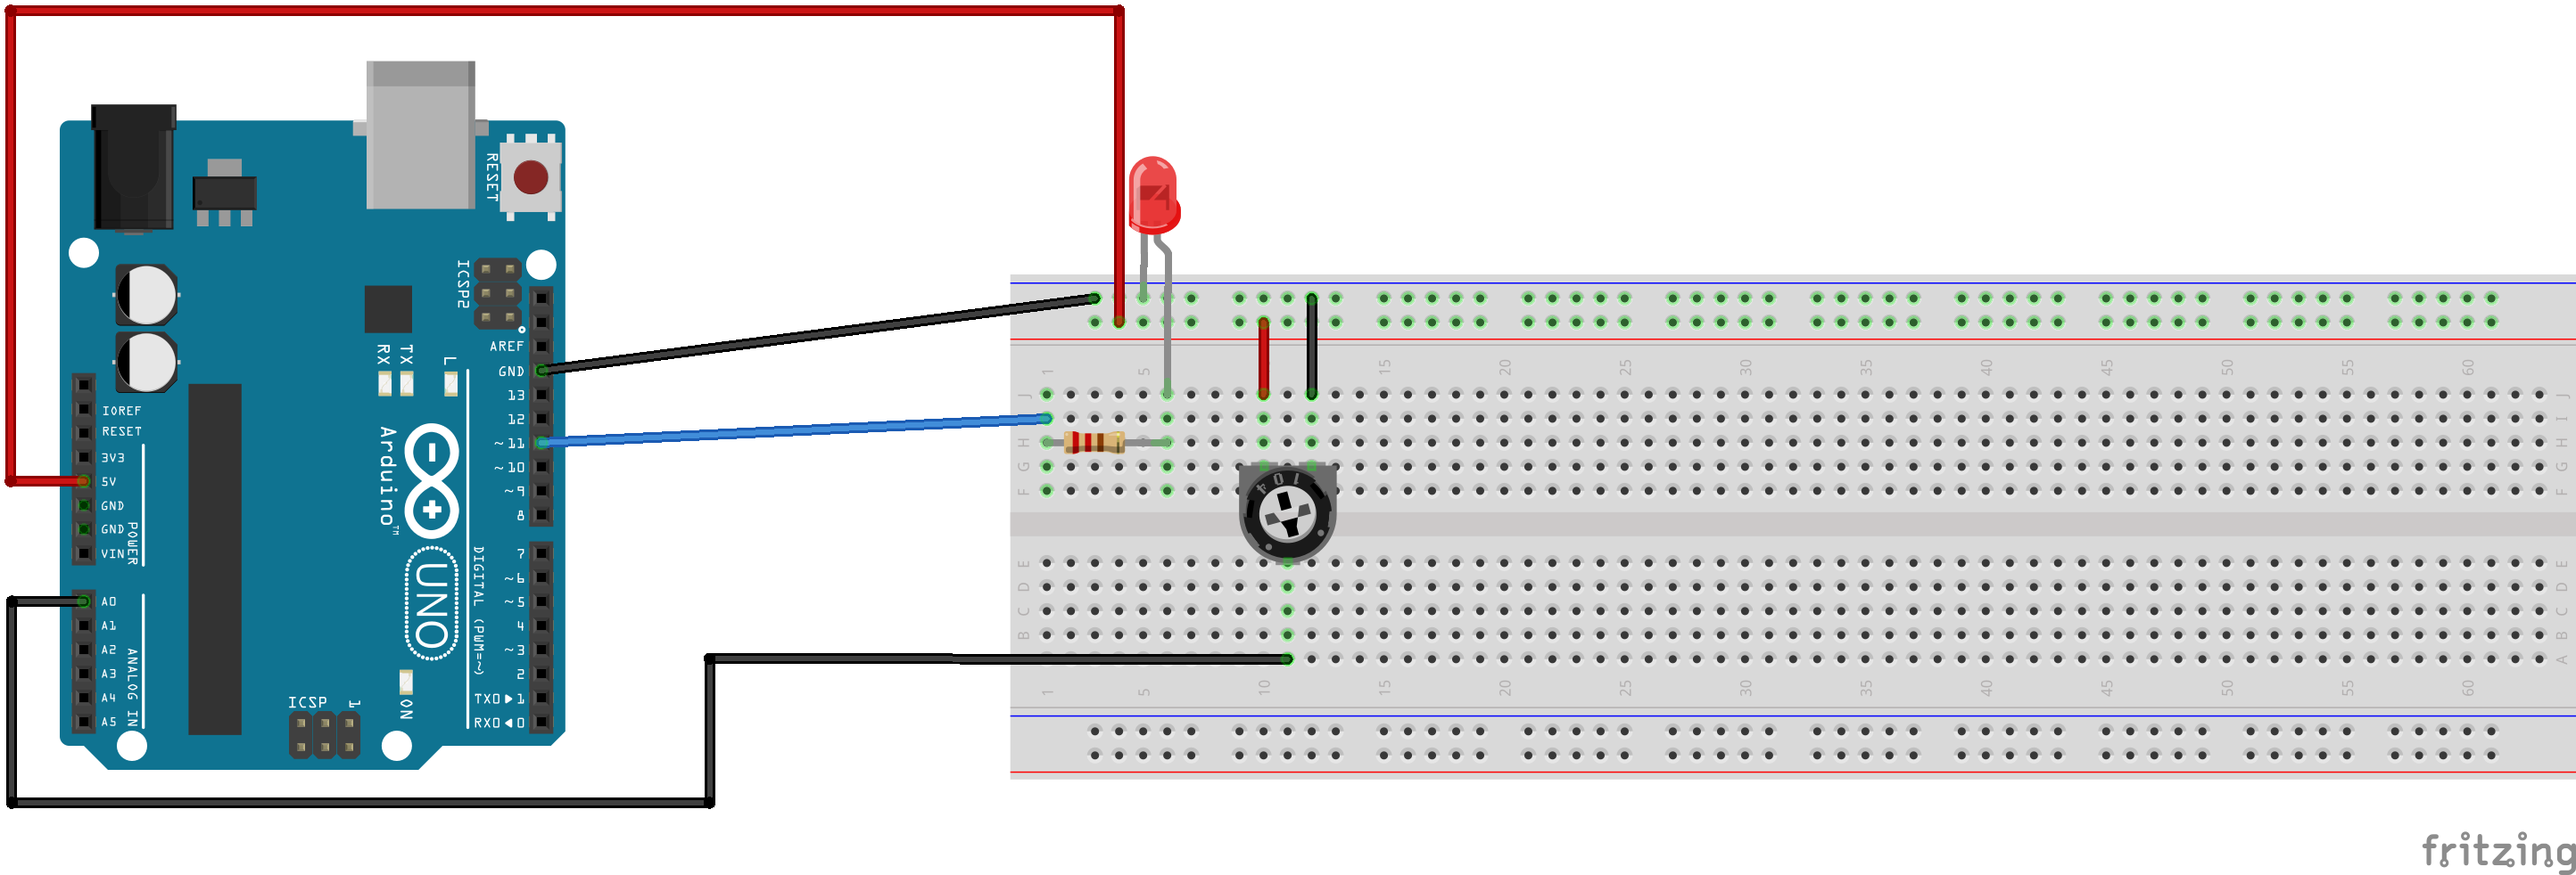
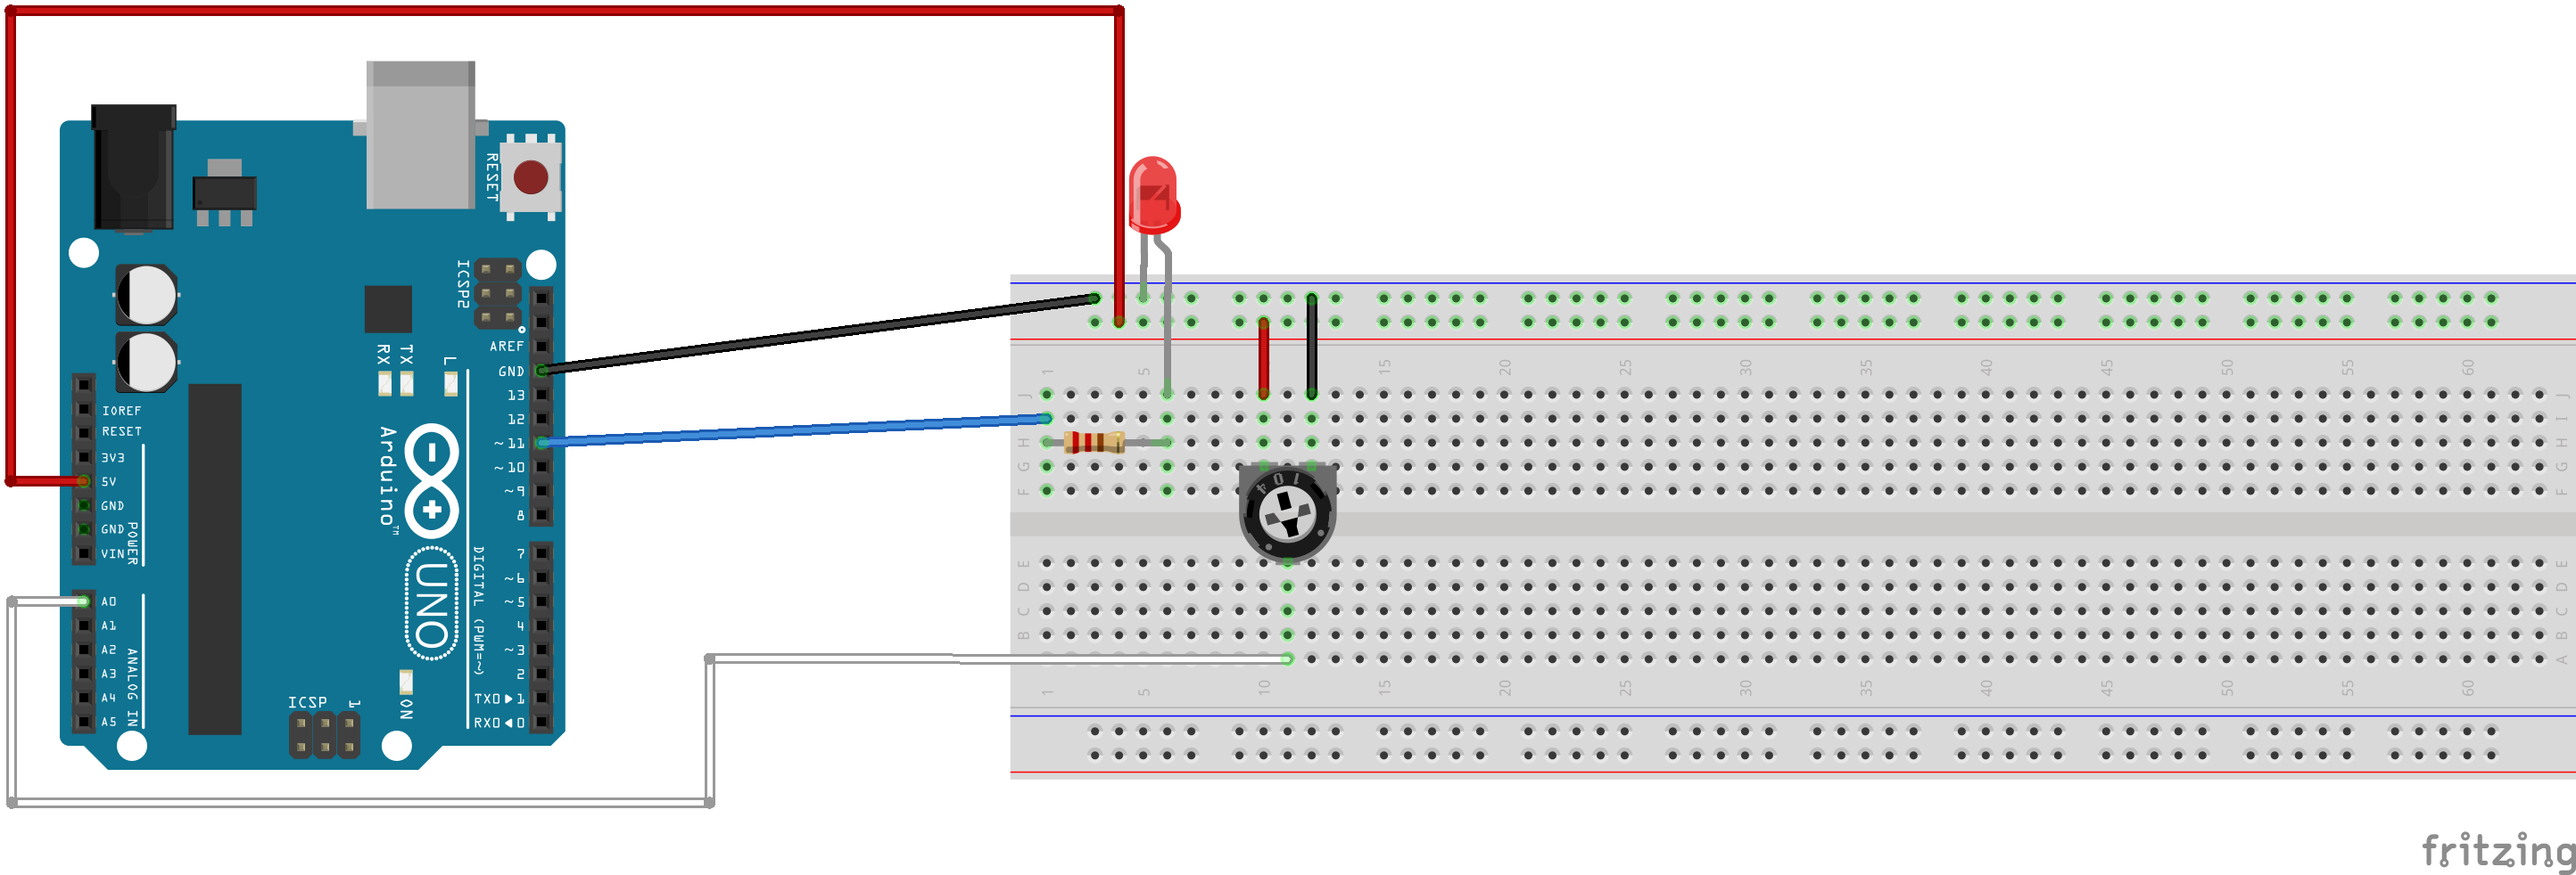
Complete Task1-2

Changed region(s): [[0.0, 0.6721, 0.4986, 0.947]]

diff --git a/Lab1/Task1-2/report.md b/Lab1/Task1-2/report.md
@@ -1,26 +1,31 @@
-**`Lab1/Task1-2/report.md`（完整示範報告）**
+**`Lab1/Task1-2/report.md`**
 
 ```markdown
-# 課題報告：Task 0-1 Hello World 序列埠輸出
+# 課題報告：Task 1-2 RGB LED_Layering TThree Inputs
 
-- **學生姓名**：[請填寫姓名]
-- **學生學號**：[請填寫學號]
-- **完成日期**：2026-XX-XX
+- **學生姓名**：馮奕勛
+- **學生學號**：113511108
+- **完成日期**：2026-09-17
 
 ---
 
-### 1. 實驗目標(可參考課程投影片寫法)
-- 驗證 Arduino IDE 開發環境編譯與燒錄功能正常。
-- 掌握 `Serial.begin()` 與 `Serial.println()` 之使用方式。
-- 學習透過 Arduino IDE「序列埠監控器（Serial Monitor）」接收開發板訊息。
+### 1. 實驗目標
+- 控制RGB三色LED
+- 用可變電阻輸入類比訊號(0~1023, 輸入腳位 10bits)，換作輸出類比訊號至LED上，以改變藍色LED的顏色(0~255, 輸出腳位 8bits)
+- 用按鈕、序列埠輸入改變狀態，疊加不同顏色至原LED上，以依序改變顏色(藍>紫>綠)
 
 ### 2. 設備與元件
 - Arduino Uno 開發板 x 1
 - USB Type-B 傳輸線 x 1
 - 個人電腦（已安裝 Arduino IDE）x 1
+- 三色LED x 1
+- 220 ohm 電阻 x 3
+- 可變電阻 10k x 1
+- 按鈕 x 1
 
 ### 3. 操作說明與成果
-1. **燒錄程式**：使用 USB 線連接 Arduino Uno 至電腦，開啟 `Task0-1.ino` 並點擊「上傳」。
-2. **開啟監控器**：開啟 Arduino IDE 的 Serial Monitor，將鮑率（Baud rate）設為 **9600 baud**。
-3. **實驗成果**：序列埠監控器成功每秒印出一次 `Hello World from Arduino!` 訊息。
-4. **操作影片**：請參閱同目錄下 `video/Task0-1.mp4` 之實際操作畫面。
+1. **燒錄程式**：使用 USB 線連接 Arduino Uno 至電腦，開啟 `Task1-2.ino` 並點擊「上傳」。
+2. **轉動可變電阻**：轉動可變電阻，改變接收腳位的電壓，讓藍色LED可以有明亮變化。
+3. **按下按鈕**：按下按鈕後狀態改變，點亮紅色LED，整體呈紫色。
+4. **序列埠輸入**:在序列埠輸入1後改變狀態，點亮綠色LED，整體呈白色。
+5. **操作影片**：請參閱同目錄下 `video/Task1-2.mov` 之實際操作畫面。
